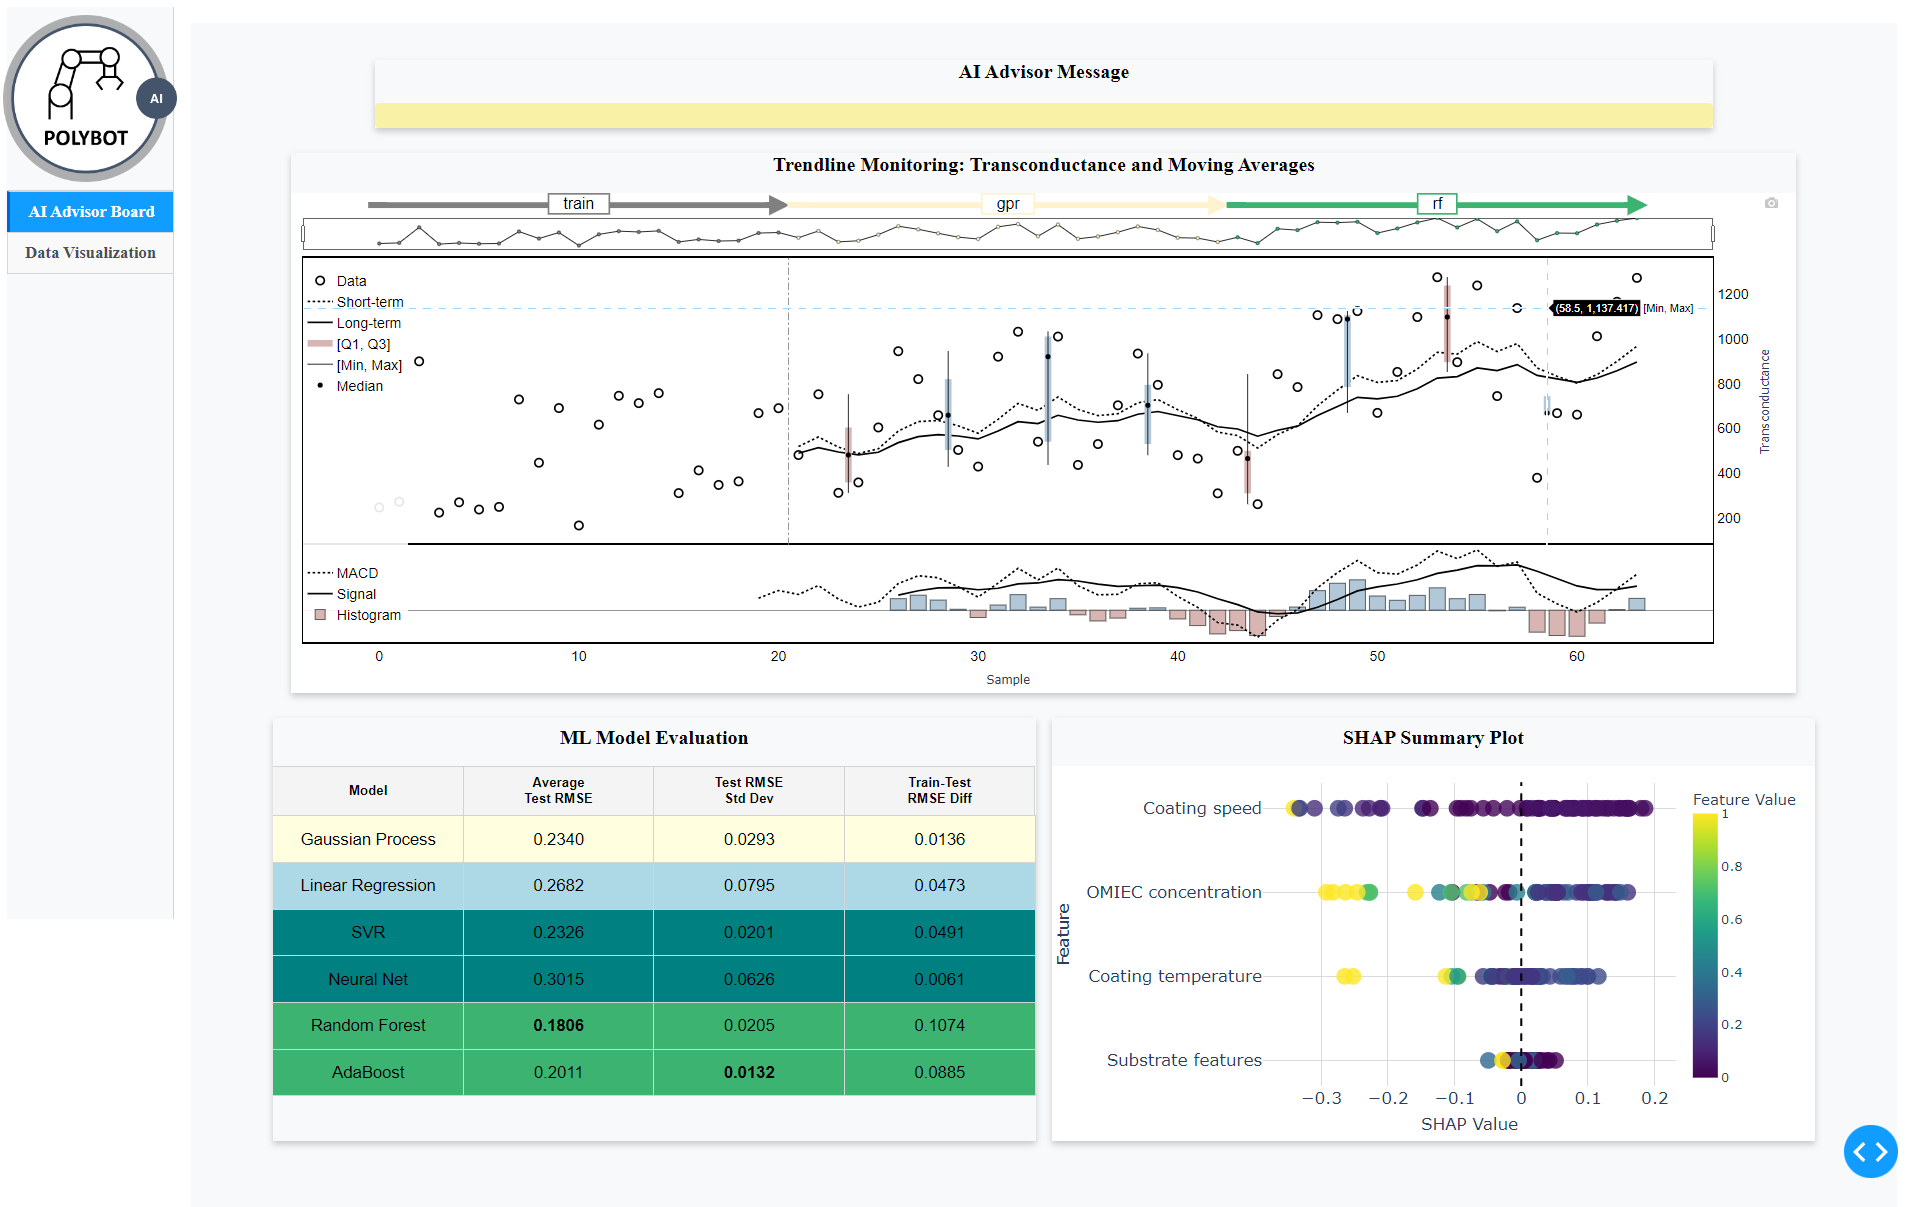
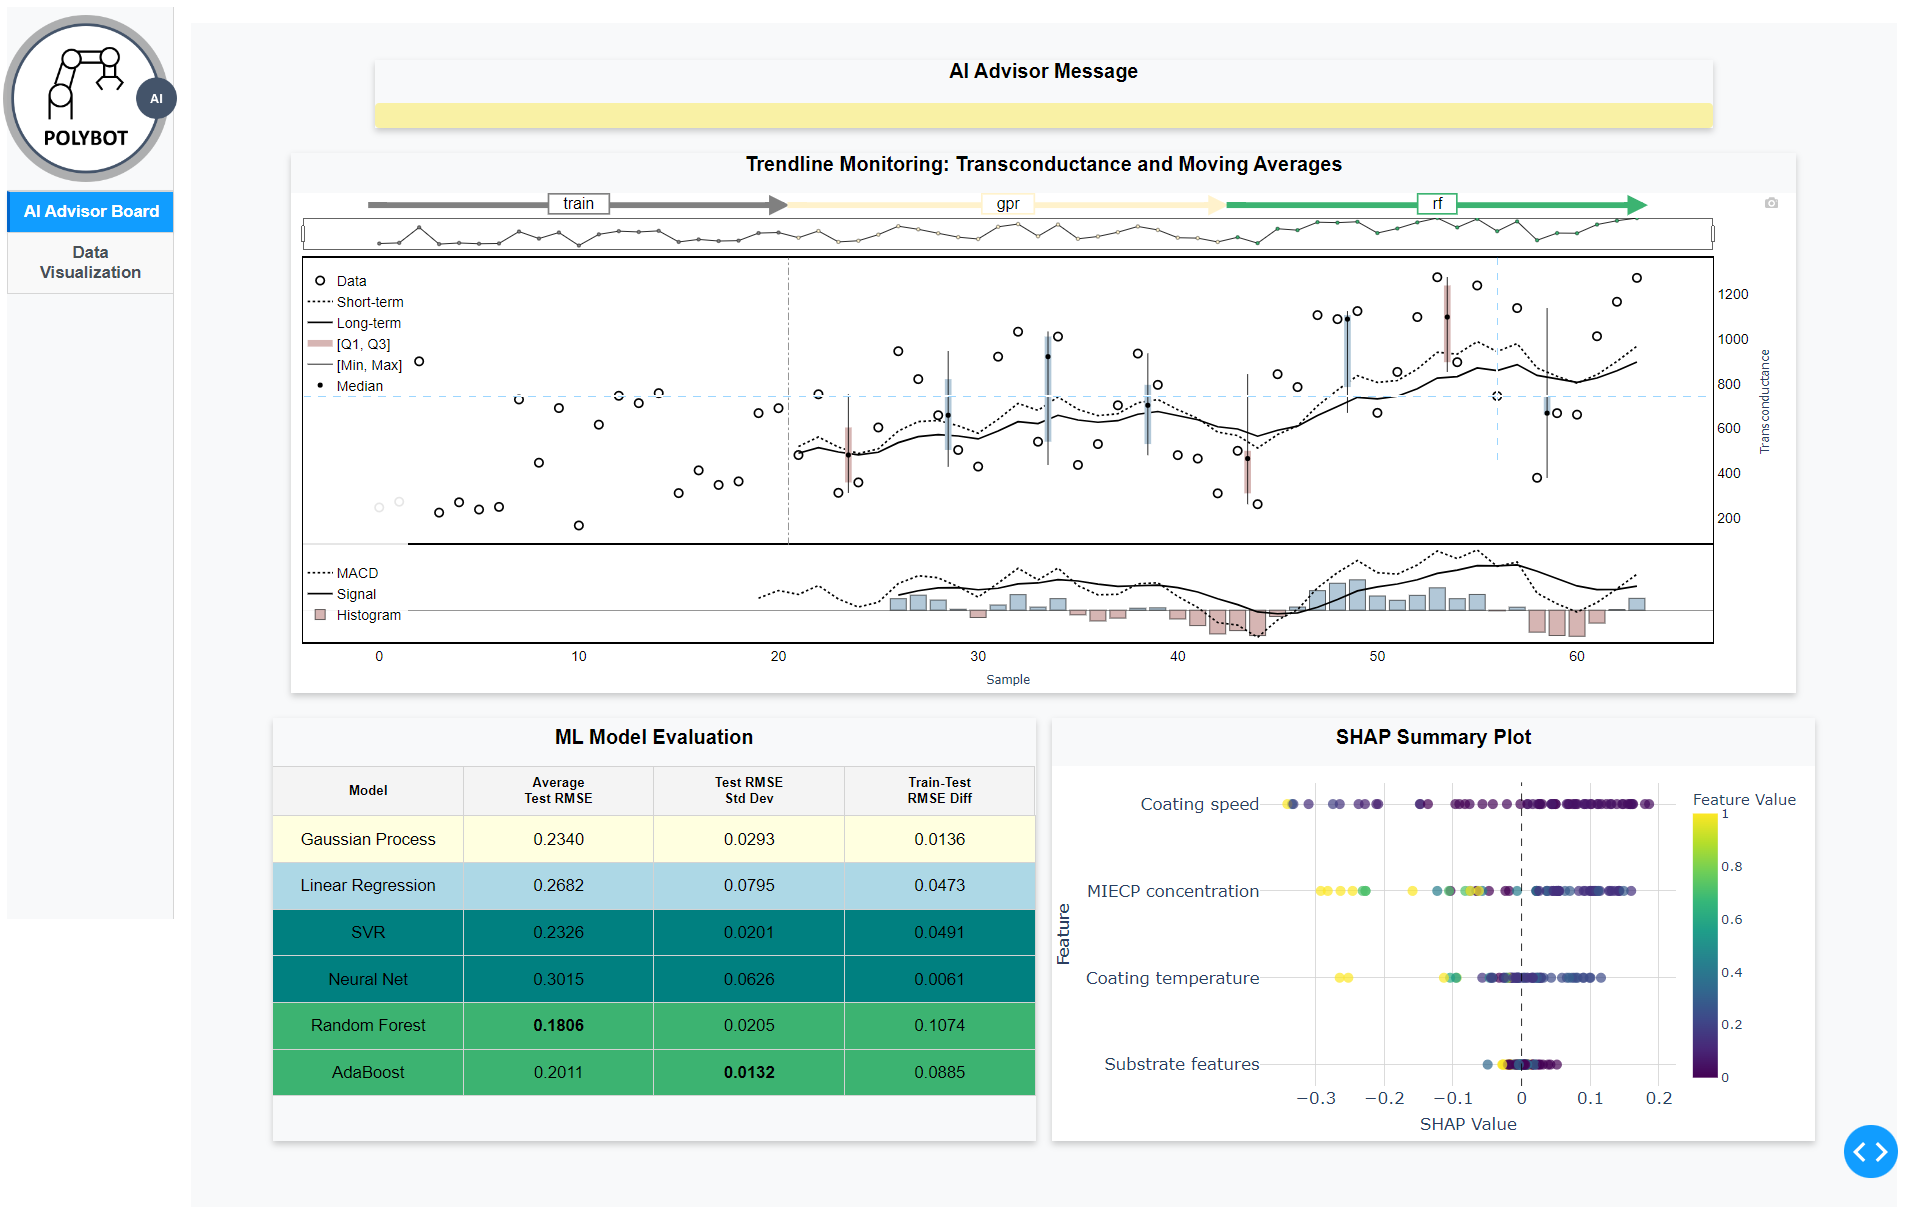
updated dashboard image

diff --git a/ml_models.py b/ml_models.py
@@ -331,7 +331,7 @@ def shapley_analysis_plotly(oect_data):
     shap_df = pd.DataFrame(
         shap_values,
         columns=[
-            'OMIEC concentration',
+            'MIECP concentration',
             'Substrate features',
             'Coating speed',
             'Coating temperature',
@@ -341,7 +341,7 @@ def shapley_analysis_plotly(oect_data):
     feature_df = pd.DataFrame(
         X.values,
         columns=[
-            'OMIEC concentration',
+            'MIECP concentration',
             'Substrate features',
             'Coating speed',
             'Coating temperature',

diff --git a/robo_dashboard.py b/robo_dashboard.py
@@ -856,11 +856,11 @@ def update_charts(relayout_data):
         update_message_box(oect_data),
     )
 
-# if __name__ == '__main__':
-#     app.run_server(debug=True)
+if __name__ == '__main__':
+    app.run_server(debug=True)
 
 # For render deployment
-server = app.server
+# server = app.server
 
-if __name__ == '__main__':
-    app.run_server(host='0.0.0.0', port=int(os.environ.get('PORT', 3000)))
+# if __name__ == '__main__':
+#     app.run_server(host='0.0.0.0', port=int(os.environ.get('PORT', 3000)))
